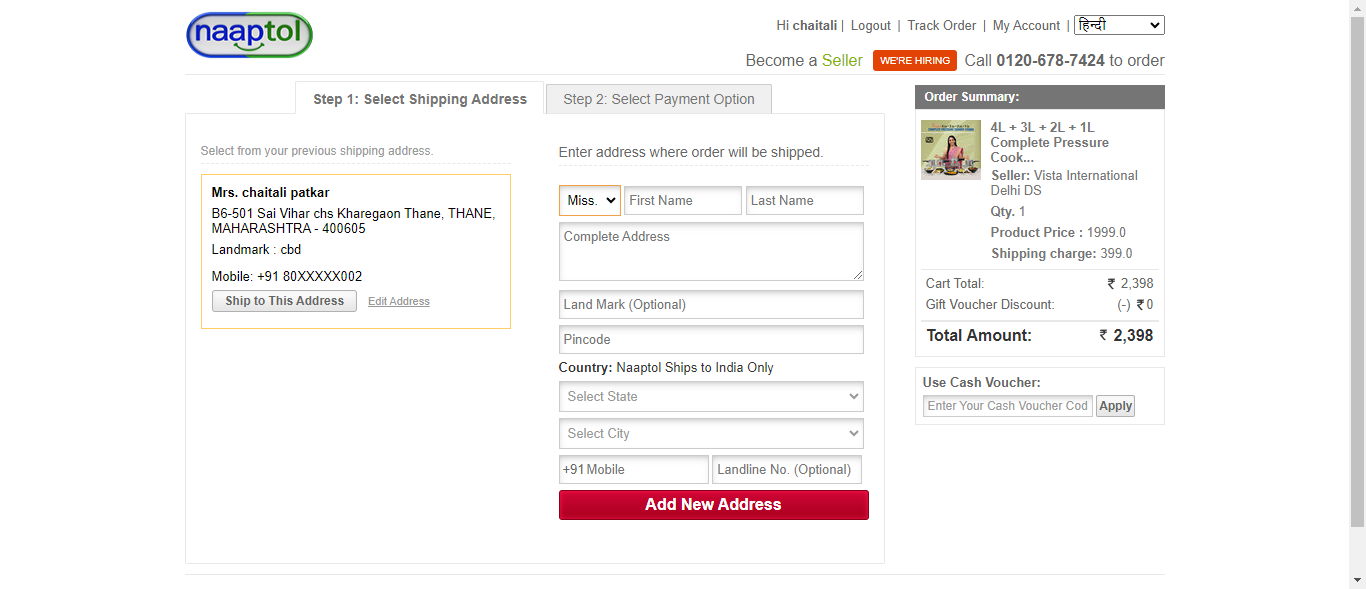
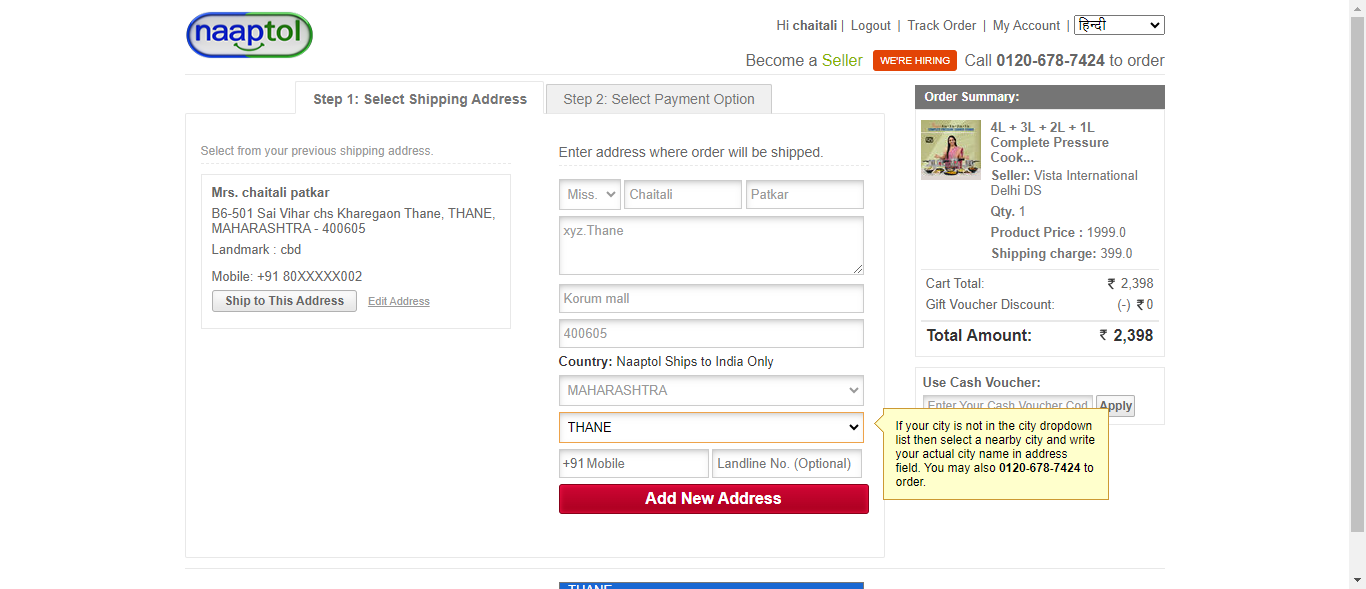
updated code push

diff --git a/test-output/index.html b/test-output/index.html
@@ -50,7 +50,7 @@
               <ul>
                 <li>
                   <a href="#" panel-name="test-xml-Default_suite" class="navigator-link ">
-                    <span>C:\Users\SWAPNIL\AppData\Local\Temp\testng-eclipse--1190682997\testng-customsuite.xml</span>
+                    <span>C:\Users\SWAPNIL\AppData\Local\Temp\testng-eclipse--518947891\testng-customsuite.xml</span>
                   </a> <!-- navigator-link  -->
                 </li>
                 <li>
@@ -129,10 +129,14 @@
                   <a name="verifyProceedToCheckout">
                   </a> <!-- verifyProceedToCheckout -->
                   <span class="method-name">verifyProceedToCheckout</span>
-                  <div class="stack-trace">java.lang.NullPointerException: Cannot invoke &quot;org.apache.poi.ss.usermodel.Sheet.getRow(int)&quot; because the return value of &quot;org.apache.poi.ss.usermodel.Workbook.getSheet(String)&quot; is null
-	at utility.Parametrization.getTestData(Parametrization.java:13)
-	at pom.ShippingAddress.enterFirstName(ShippingAddress.java:38)
-	at test.Checkout.verifyProceedToCheckout(Checkout.java:55)
+                  <div class="stack-trace">org.openqa.selenium.NoSuchElementException: Cannot locate option with text: Thane
+For documentation on this error, please visit: https://www.selenium.dev/documentation/webdriver/troubleshooting/errors#no-such-element-exception
+Build info: version: &apos;4.21.0&apos;, revision: &apos;79ed462ef4&apos;
+System info: os.name: &apos;Windows 10&apos;, os.arch: &apos;amd64&apos;, os.version: &apos;10.0&apos;, java.version: &apos;17.0.11&apos;
+Driver info: driver.version: unknown
+	at org.openqa.selenium.support.ui.Select.selectByVisibleText(Select.java:153)
+	at pom.ShippingAddress.selectCity(ShippingAddress.java:71)
+	at test.Checkout.verifyProceedToCheckout(Checkout.java:61)
 	at java.base/jdk.internal.reflect.NativeMethodAccessorImpl.invoke0(Native Method)
 	at java.base/jdk.internal.reflect.NativeMethodAccessorImpl.invoke(NativeMethodAccessorImpl.java:77)
 	at java.base/jdk.internal.reflect.DelegatingMethodAccessorImpl.invoke(DelegatingMethodAccessorImpl.java:43)
@@ -170,7 +174,7 @@
         </div> <!-- panel Default_suite -->
         <div panel-name="test-xml-Default_suite" class="panel">
           <div class="main-panel-header rounded-window-top">
-            <span class="header-content">C:\Users\SWAPNIL\AppData\Local\Temp\testng-eclipse--1190682997\testng-customsuite.xml</span>
+            <span class="header-content">C:\Users\SWAPNIL\AppData\Local\Temp\testng-eclipse--518947891\testng-customsuite.xml</span>
           </div> <!-- main-panel-header rounded-window-top -->
           <div class="main-panel-content rounded-window-bottom">
             <pre>
@@ -223,12 +227,12 @@ data.addRows(1);
 data.setCell(0, 0, 0)
 data.setCell(0, 1, 'verifyProceedToCheckout')
 data.setCell(0, 2, 'test.Checkout')
-data.setCell(0, 3, 30895);
+data.setCell(0, 3, 40794);
 window.suiteTableData['Default_suite']= { tableData: data, tableDiv: 'times-div-Default_suite'}
 return data;
 }
               </script>
-              <span class="suite-total-time">Total running time: 30 seconds</span>
+              <span class="suite-total-time">Total running time: 40 seconds</span>
               <div id="times-div-Default_suite">
               </div> <!-- times-div-Default_suite -->
             </div> <!-- times-div -->
@@ -261,17 +265,17 @@ return data;
               </div> <!-- configuration-test before -->
               <div class="configuration-method before">
                 <span class="method-name">openApplication</span>
-                <span class="method-start">823 ms</span>
+                <span class="method-start">737 ms</span>
               </div> <!-- configuration-method before -->
               <div class="test-method">
                 <img src="failed.png">
                 </img>
                 <span class="method-name">verifyProceedToCheckout</span>
-                <span class="method-start">14326 ms</span>
+                <span class="method-start">14134 ms</span>
               </div> <!-- test-method -->
               <div class="configuration-test after">
                 <span class="method-name">publishReport</span>
-                <span class="method-start">45467 ms</span>
+                <span class="method-start">55209 ms</span>
               </div> <!-- configuration-test after -->
           </div> <!-- main-panel-content rounded-window-bottom -->
         </div> <!-- panel -->

diff --git a/test-output/Default suite/Default test.html b/test-output/Default suite/Default test.html
@@ -57,9 +57,9 @@ function toggleAllBoxes() {
 <tr>
 <td>Tests passed/Failed/Skipped:</td><td>0/1/0</td>
 </tr><tr>
-<td>Started on:</td><td>Wed Jul 03 14:51:12 IST 2024</td>
+<td>Started on:</td><td>Wed Jul 03 15:55:09 IST 2024</td>
 </tr>
-<tr><td>Total time:</td><td>46 seconds (46678 ms)</td>
+<tr><td>Total time:</td><td>55 seconds (55972 ms)</td>
 </tr><tr>
 <td>Included groups:</td><td></td>
 </tr><tr>
@@ -77,10 +77,14 @@ function toggleAllBoxes() {
 </tr>
 <tr>
 <td title='test.Checkout.verifyProceedToCheckout()'><b>verifyProceedToCheckout</b><br>Test class: test.Checkout</td>
-<td><div><pre>java.lang.NullPointerException: Cannot invoke &quot;org.apache.poi.ss.usermodel.Sheet.getRow(int)&quot; because the return value of &quot;org.apache.poi.ss.usermodel.Workbook.getSheet(String)&quot; is null
-	at utility.Parametrization.getTestData(Parametrization.java:13)
-	at pom.ShippingAddress.enterFirstName(ShippingAddress.java:38)
-	at test.Checkout.verifyProceedToCheckout(Checkout.java:55)
+<td><div><pre>org.openqa.selenium.NoSuchElementException: Cannot locate option with text: Thane
+For documentation on this error, please visit: https://www.selenium.dev/documentation/webdriver/troubleshooting/errors#no-such-element-exception
+Build info: version: &apos;4.21.0&apos;, revision: &apos;79ed462ef4&apos;
+System info: os.name: &apos;Windows 10&apos;, os.arch: &apos;amd64&apos;, os.version: &apos;10.0&apos;, java.version: &apos;17.0.11&apos;
+Driver info: driver.version: unknown
+	at org.openqa.selenium.support.ui.Select.selectByVisibleText(Select.java:153)
+	at pom.ShippingAddress.selectCity(ShippingAddress.java:71)
+	at test.Checkout.verifyProceedToCheckout(Checkout.java:61)
 	at java.base/jdk.internal.reflect.NativeMethodAccessorImpl.invoke0(Native Method)
 	at java.base/jdk.internal.reflect.NativeMethodAccessorImpl.invoke(NativeMethodAccessorImpl.java:77)
 	at java.base/jdk.internal.reflect.DelegatingMethodAccessorImpl.invoke(DelegatingMethodAccessorImpl.java:43)
@@ -109,11 +113,15 @@ function toggleAllBoxes() {
 	at org.testng.remote.AbstractRemoteTestNG.run(AbstractRemoteTestNG.java:115)
 	at org.testng.remote.RemoteTestNG.initAndRun(RemoteTestNG.java:293)
 	at org.testng.remote.RemoteTestNG.main(RemoteTestNG.java:91)
-</pre></div><a href='#' onClick='toggleBox("stack-trace1250558105", this, "Click to show all stack frames", "Click to hide stack frames")'>Click to show all stack frames</a>
-<div class='stack-trace' id='stack-trace1250558105'><pre>java.lang.NullPointerException: Cannot invoke &quot;org.apache.poi.ss.usermodel.Sheet.getRow(int)&quot; because the return value of &quot;org.apache.poi.ss.usermodel.Workbook.getSheet(String)&quot; is null
-	at utility.Parametrization.getTestData(Parametrization.java:13)
-	at pom.ShippingAddress.enterFirstName(ShippingAddress.java:38)
-	at test.Checkout.verifyProceedToCheckout(Checkout.java:55)
+</pre></div><a href='#' onClick='toggleBox("stack-trace508864177", this, "Click to show all stack frames", "Click to hide stack frames")'>Click to show all stack frames</a>
+<div class='stack-trace' id='stack-trace508864177'><pre>org.openqa.selenium.NoSuchElementException: Cannot locate option with text: Thane
+For documentation on this error, please visit: https://www.selenium.dev/documentation/webdriver/troubleshooting/errors#no-such-element-exception
+Build info: version: &apos;4.21.0&apos;, revision: &apos;79ed462ef4&apos;
+System info: os.name: &apos;Windows 10&apos;, os.arch: &apos;amd64&apos;, os.version: &apos;10.0&apos;, java.version: &apos;17.0.11&apos;
+Driver info: driver.version: unknown
+	at org.openqa.selenium.support.ui.Select.selectByVisibleText(Select.java:153)
+	at pom.ShippingAddress.selectCity(ShippingAddress.java:71)
+	at test.Checkout.verifyProceedToCheckout(Checkout.java:61)
 	at java.base/jdk.internal.reflect.NativeMethodAccessorImpl.invoke0(Native Method)
 	at java.base/jdk.internal.reflect.NativeMethodAccessorImpl.invoke(NativeMethodAccessorImpl.java:77)
 	at java.base/jdk.internal.reflect.DelegatingMethodAccessorImpl.invoke(DelegatingMethodAccessorImpl.java:43)
@@ -143,7 +151,7 @@ function toggleAllBoxes() {
 	at org.testng.remote.RemoteTestNG.initAndRun(RemoteTestNG.java:293)
 	at org.testng.remote.RemoteTestNG.main(RemoteTestNG.java:91)
 </pre></div></td>
-<td>30</td>
+<td>40</td>
 <td>test.Checkout@28261e8e</td></tr>
 </table><p>
 </body>

diff --git a/test-output/emailable-report.html b/test-output/emailable-report.html
@@ -9,14 +9,18 @@
 <table>
 <tr><th>Test</th><th># Passed</th><th># Skipped</th><th># Retried</th><th># Failed</th><th>Time (ms)</th><th>Included Groups</th><th>Excluded Groups</th></tr>
 <tr><th colspan="8">Default suite</th></tr>
-<tr><td><a href="#t0">Default test</a></td><td class="num">0</td><td class="num">0</td><td class="num">0</td><td class="num attn">1</td><td class="num">46,678</td><td></td><td></td></tr>
+<tr><td><a href="#t0">Default test</a></td><td class="num">0</td><td class="num">0</td><td class="num">0</td><td class="num attn">1</td><td class="num">55,972</td><td></td><td></td></tr>
 </table>
-<table id='summary'><thead><tr><th>Class</th><th>Method</th><th>Start</th><th>Time (ms)</th></tr></thead><tbody><tr><th colspan="4">Default suite</th></tr></tbody><tbody id="t0"><tr><th colspan="4">Default test &#8212; failed</th></tr><tr class="failedeven"><td rowspan="1">test.Checkout</td><td><a href="#m0">verifyProceedToCheckout</a></td><td rowspan="1">1719998486558</td><td rowspan="1">30895</td></tr></tbody>
+<table id='summary'><thead><tr><th>Class</th><th>Method</th><th>Start</th><th>Time (ms)</th></tr></thead><tbody><tr><th colspan="4">Default suite</th></tr></tbody><tbody id="t0"><tr><th colspan="4">Default test &#8212; failed</th></tr><tr class="failedeven"><td rowspan="1">test.Checkout</td><td><a href="#m0">verifyProceedToCheckout</a></td><td rowspan="1">1720002323966</td><td rowspan="1">40794</td></tr></tbody>
 </table>
-<h2>Default test</h2><h3 id="m0">test.Checkout#verifyProceedToCheckout</h3><table class="result"><tr><th>Exception</th></tr><tr><td><div class="stacktrace">java.lang.NullPointerException: Cannot invoke &quot;org.apache.poi.ss.usermodel.Sheet.getRow(int)&quot; because the return value of &quot;org.apache.poi.ss.usermodel.Workbook.getSheet(String)&quot; is null
-	at utility.Parametrization.getTestData(Parametrization.java:13)
-	at pom.ShippingAddress.enterFirstName(ShippingAddress.java:38)
-	at test.Checkout.verifyProceedToCheckout(Checkout.java:55)
+<h2>Default test</h2><h3 id="m0">test.Checkout#verifyProceedToCheckout</h3><table class="result"><tr><th>Exception</th></tr><tr><td><div class="stacktrace">org.openqa.selenium.NoSuchElementException: Cannot locate option with text: Thane
+For documentation on this error, please visit: https://www.selenium.dev/documentation/webdriver/troubleshooting/errors#no-such-element-exception
+Build info: version: &apos;4.21.0&apos;, revision: &apos;79ed462ef4&apos;
+System info: os.name: &apos;Windows 10&apos;, os.arch: &apos;amd64&apos;, os.version: &apos;10.0&apos;, java.version: &apos;17.0.11&apos;
+Driver info: driver.version: unknown
+	at org.openqa.selenium.support.ui.Select.selectByVisibleText(Select.java:153)
+	at pom.ShippingAddress.selectCity(ShippingAddress.java:71)
+	at test.Checkout.verifyProceedToCheckout(Checkout.java:61)
 	at java.base/jdk.internal.reflect.NativeMethodAccessorImpl.invoke0(Native Method)
 	at java.base/jdk.internal.reflect.NativeMethodAccessorImpl.invoke(NativeMethodAccessorImpl.java:77)
 	at java.base/jdk.internal.reflect.DelegatingMethodAccessorImpl.invoke(DelegatingMethodAccessorImpl.java:43)

diff --git a/NaaptolReports.html b/NaaptolReports.html
@@ -35,7 +35,7 @@
 <a href="#"><span class="badge badge-primary"></span></a>
 </li>
 <li class="m-r-10">
-<a href="#"><span class="badge badge-primary">Jul 3, 2024 02:51:12 pm</span></a>
+<a href="#"><span class="badge badge-primary">Jul 3, 2024 03:55:09 pm</span></a>
 </li>
 </ul>
 </div>
@@ -81,7 +81,7 @@
           <div class="test-detail">
             <p class="name">verifyProceedToCheckout</p>
             <p class="text-sm">
-              <span>2:51:26 pm</span> / <span>00:00:00:000</span>
+              <span>3:55:23 pm</span> / <span>00:00:00:000</span>
               <span class="badge pass-bg log float-right">Pass</span>
             </p>
           </div>
@@ -90,8 +90,8 @@
 <div class="p-v-10">
 <div class="info">
 <h5 class="test-status text-pass">verifyProceedToCheckout</h5>
-<span class='badge badge-success'>07.03.2024 2:51:26 pm</span>
-<span class='badge badge-danger'>07.03.2024 2:51:26 pm</span>
+<span class='badge badge-success'>07.03.2024 3:55:23 pm</span>
+<span class='badge badge-danger'>07.03.2024 3:55:23 pm</span>
 <span class='badge badge-default'>00:00:00:000</span>
 &middot; <span class='uri-anchor badge badge-default'>#test-id=1</span>
 <span title='Skip to the next failed step' class='badge badge-danger pointer float-right ne ml-1'><i class="fa fa-fast-forward"></i></span>
@@ -115,13 +115,13 @@
 <div class="col-md-3">
 <div class="card"><div class="card-body">
 <p class="m-b-0">Started</p>
-<h3>Jul 3, 2024 02:51:12 pm</h3>
+<h3>Jul 3, 2024 03:55:09 pm</h3>
 </div></div>
 </div>
 <div class="col-md-3">
 <div class="card"><div class="card-body">
 <p class="m-b-0">Ended</p>
-<h3>Jul 3, 2024 02:51:57 pm</h3>
+<h3>Jul 3, 2024 03:56:05 pm</h3>
 </div></div>
 </div>
 <div class="col-md-3">

diff --git a/src/main/java/pom/ShippingAddress.java b/src/main/java/pom/ShippingAddress.java
@@ -35,27 +35,27 @@ public class ShippingAddress {
 	}
 
 	public void enterFirstName() throws EncryptedDocumentException, IOException {
-		String Name = Parametrization.getTestData(1, 0, "UserDetail");
+		String Name = Parametrization.getTestData(1, 0, "sheet1");
 		firstname.sendKeys(Name);
 	}
 
 	public void enterLastName() throws EncryptedDocumentException, IOException {
-		String Lastname = Parametrization.getTestData(1, 1, "UserDetail");
+		String Lastname = Parametrization.getTestData(1, 1, "sheet1");
 		lastname.sendKeys(Lastname);
 	}
 
 	public void enterAddress() throws EncryptedDocumentException, IOException {
-		String add = Parametrization.getTestData(1, 3, "UserDetail");
+		String add = Parametrization.getTestData(1, 3, "sheet1");
 		address.sendKeys(add);
 	}
 
 	public void enterLandMark() throws EncryptedDocumentException, IOException {
-		String mark = Parametrization.getTestData(1, 5, "UserDetail");
+		String mark = Parametrization.getTestData(1, 5, "sheet1");
 		landmark.sendKeys(mark);
 	}
 
 	public void enterPincode() throws EncryptedDocumentException, IOException {
-		String pin = Parametrization.getTestData(1, 4, "UserDetail");
+		String pin = Parametrization.getTestData(1, 4, "sheet1");
 		pincode.sendKeys(pin);
 	}
 
@@ -72,12 +72,12 @@ public class ShippingAddress {
 	}
 
 	public void enterMobileNoinShippingAddrees() throws EncryptedDocumentException, IOException {
-		String mobileNumber = Parametrization.getTestData(1, 2, "UserDetail");
+		String mobileNumber = Parametrization.getTestData(1, 2, "sheet1");
 		mobileNumberInAddress.sendKeys(mobileNumber);
 	}
 
 	public void enterLandLine() throws EncryptedDocumentException, IOException {
-		String landline = Parametrization.getTestData(1, 6, "UserDetail");
+		String landline = Parametrization.getTestData(1, 6, "sheet1");
 		landLine.sendKeys(landline);
 	}
 

diff --git a/src/main/java/utility/Reports.java b/src/main/java/utility/Reports.java
@@ -12,15 +12,7 @@ public class Reports {
 	    reports.setSystemInfo("Project","Naaptol");
 	    return reports;
 	   
-	    
-	//public static ExtentReports configureReports() {
-	//ExtentReports reports = new ExtentReports();
-	//ExtentSparkReporter html= new ExtentSparkReporter("NaptoolReports.html");
-	//reports.attachReporter(html);
-	//reports.setSystemInfo("Project", "Naaptol");
-	//reports.setSystemInfo("CreatedBy", "Chaitali");
-	//return reports;
-   }
+	}	
 
 }
 

diff --git a/src/main/java/pojo/Browser.java b/src/main/java/pojo/Browser.java
@@ -16,8 +16,7 @@ driver.manage().window().maximize();
 driver.manage().timeouts().implicitlyWait(Duration.ofSeconds(10));
 return driver;
 }
-	//public static void main(String[] args) {  // this 2 lines of code to open the Naaptol Homepage
-	//	Browser.launchApplication();
+	
 	}
 
 	
